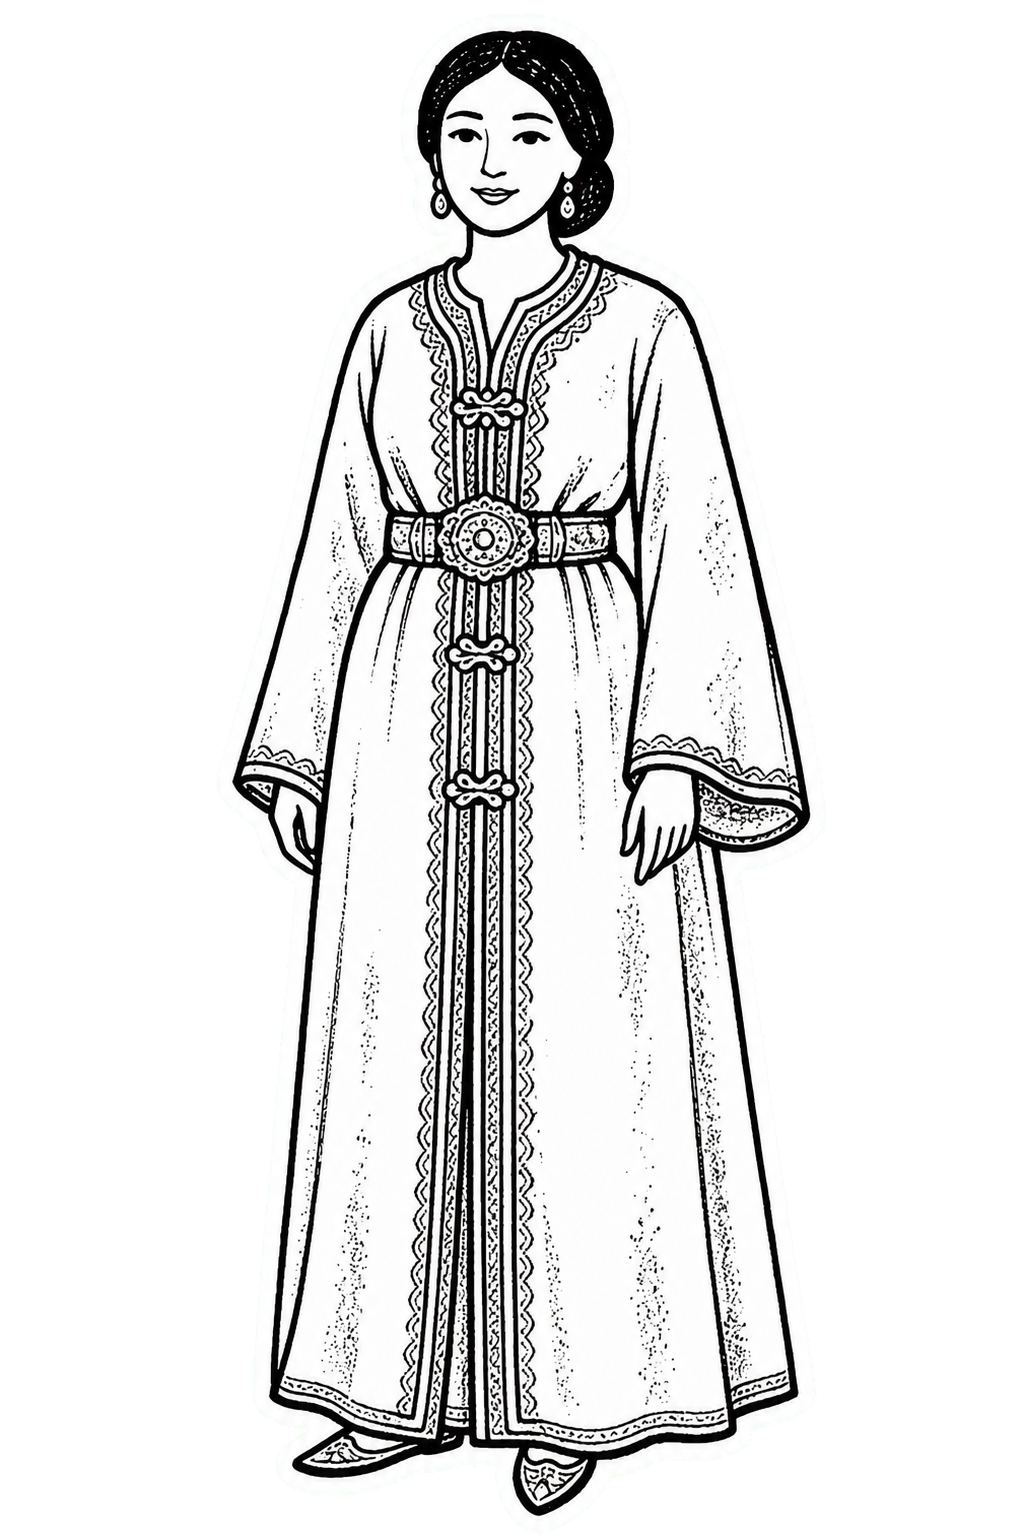
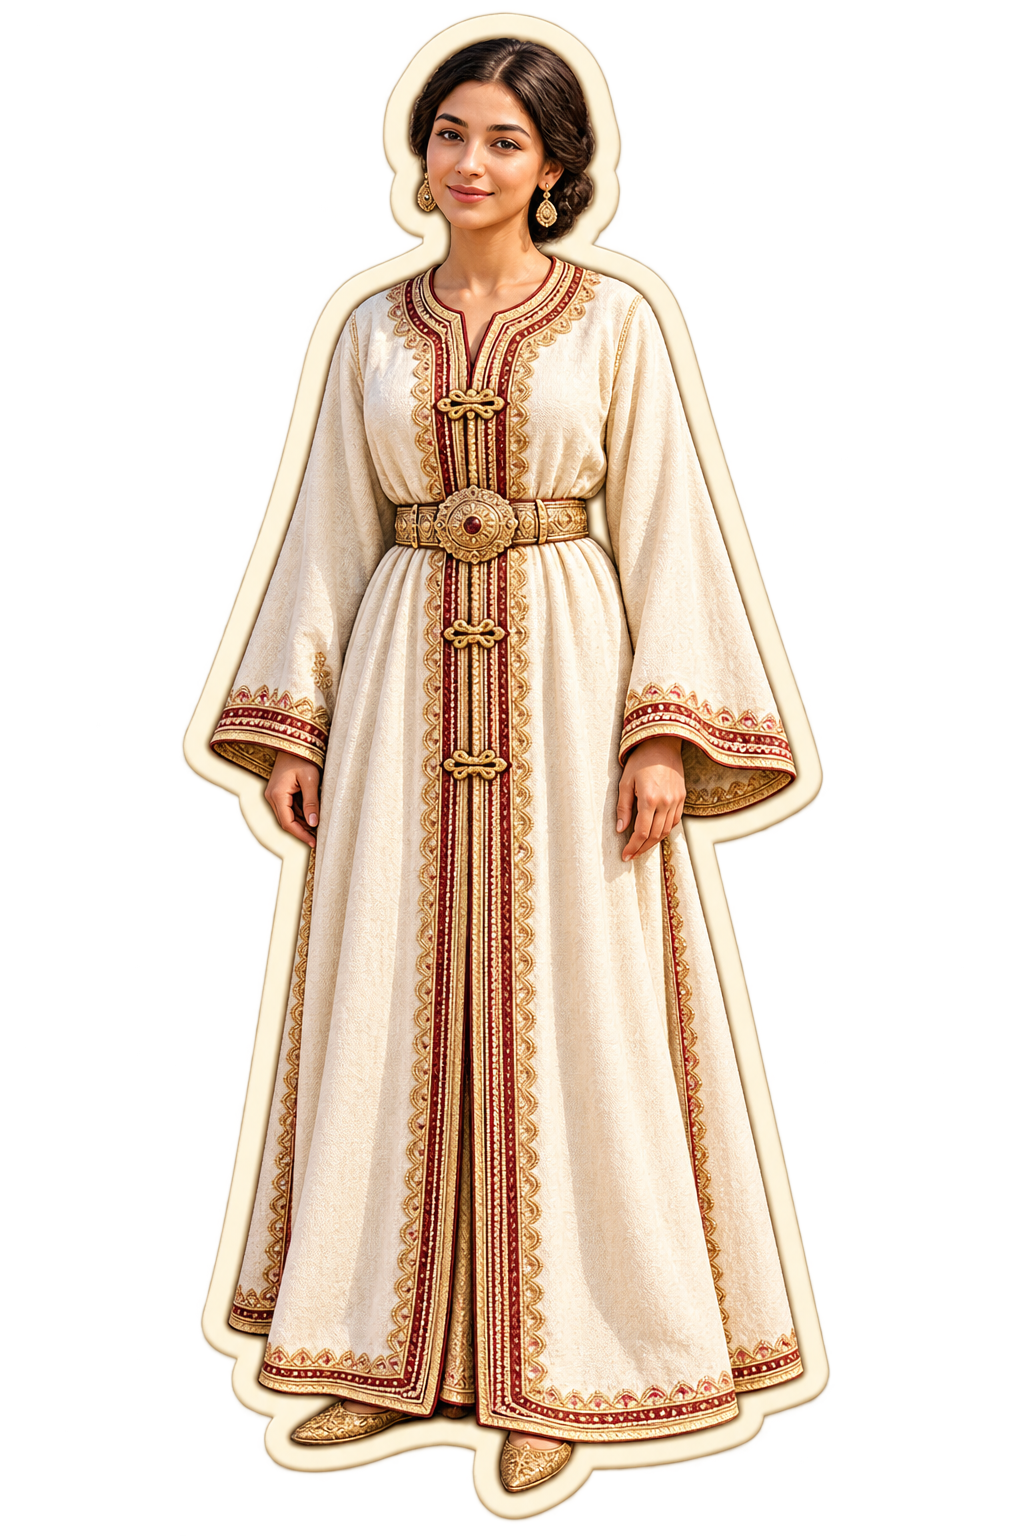
feat(stickers): upgrade all 12 cultural stickers with high-definition new artworks

diff --git a/index.html b/index.html
@@ -2499,18 +2499,18 @@
     /* ── CLICK & TAP STICKER POPUP (DESKTOP & MOBILE) ── */
     (function(){
       const stickers = [
-        "stickers/ait-ben-haddou-sticker.png",
-        "stickers/al-qarawiyyin-sticker.png",
-        "stickers/argan-oil-making-sticker.png",
-        "stickers/bab-mansour-sticker.png",
-        "stickers/essaouira-sqala-sticker.png",
-        "stickers/gnawa-maalem-sticker.png",
-        "stickers/hassan-tower-sticker.png",
-        "stickers/jemaa-el-fnaa-sticker.png",
-        "stickers/koutoubia-sticker.png",
-        "stickers/moroccan-caftan-sticker.png",
-        "stickers/tbourida-sticker.png",
-        "stickers/volubilis-sticker.png"
+        "stickers/ait-ben-haddou-sticker.webp",
+        "stickers/al-qarawiyyin-sticker.webp",
+        "stickers/argan-oil-making-sticker.webp",
+        "stickers/bab-mansour-sticker.webp",
+        "stickers/essaouira-sqala-sticker.webp",
+        "stickers/gnawa-maalem-sticker.webp",
+        "stickers/hassan-tower-sticker.webp",
+        "stickers/jemaa-el-fnaa-sticker.webp",
+        "stickers/koutoubia-sticker.webp",
+        "stickers/moroccan-caftan-sticker.webp",
+        "stickers/tbourida-sticker.webp",
+        "stickers/volubilis-sticker.webp"
       ];
       let stickerIdx = 0;
       let activeTimer = null;
